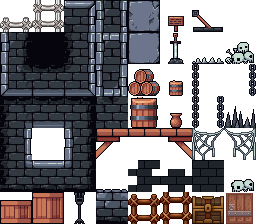
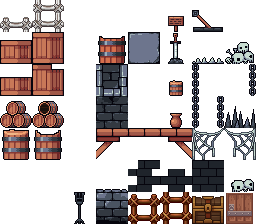
aha-30045 added setted nonInteractive tiles

diff --git a/src/classes/env-static-map-elements.ts b/src/classes/env-static-map-elements.ts
@@ -71,10 +71,10 @@ export class EnvStaticMapElements {
 
   getListOfElementTypes(): IEnvElementTypes {
     return {
-      [EnvStaticElements.box]: this.getCreaterUsualBoxesElement(EnvStaticElements.box, EnvStaticElements.usedBox),
-      [EnvStaticElements.bigBox]: this.getCreaterUsualBoxesElement(EnvStaticElements.bigBox, EnvStaticElements.usedBox),
-      [EnvStaticElements.barrels]: this.getCreaterUsualBoxesElement(EnvStaticElements.barrels, EnvStaticElements.usedBox),
-      [EnvStaticElements.bigBarrel]: this.getCreaterUsualBoxesElement(EnvStaticElements.bigBarrel, EnvStaticElements.usedBox),
+      [EnvStaticElements.box]: this.getCreaterUsualBoxesElement(EnvStaticElements.box, EnvStaticElements.openedBox),
+      [EnvStaticElements.bigBox]: this.getCreaterUsualBoxesElement(EnvStaticElements.bigBox, EnvStaticElements.openedBigBox),
+      [EnvStaticElements.barrels]: this.getCreaterUsualBoxesElement(EnvStaticElements.barrels, EnvStaticElements.openedBarrels),
+      [EnvStaticElements.bigBarrel]: this.getCreaterUsualBoxesElement(EnvStaticElements.bigBarrel, EnvStaticElements.openedBigBarrel),
       [EnvStaticElements.chest]: this.getCreaterUsualBoxesElement(EnvStaticElements.chest, EnvStaticElements.usedBox),
       [EnvStaticElements.door]: this.getCreaterStaticElementWithLayer(
         EnvStaticElements.door,

diff --git a/src/types/enums.ts b/src/types/enums.ts
@@ -86,11 +86,15 @@ export enum PocketItemsEnum {
 }
 
 export enum EnvStaticElements {
-  box = 48,
+  box = 8,
+  openedBox = 16,
   usedBox = 5,
-  bigBox = 49,
-  barrels = 20,
-  bigBarrel = 28,
+  bigBox = 9,
+  openedBigBox = 17,
+  barrels = 24,
+  openedBarrels = 25,
+  bigBarrel = 32,
+  openedBigBarrel = 33,
   torch = 50,
   door = 55,
   chest = 54,

diff --git a/src/classes/map-scene-levels.ts b/src/classes/map-scene-levels.ts
@@ -38,7 +38,7 @@ export class MapSceneLevels {
   }
   _tileIndexes: IMapTilesIndexes = {
     'D': 55, 't': 0, 'tt': 1, 'k': 54, 'B': 13, 'A': 50,
-    'l': 49, 'l1': 48, 'l2': 49, 'l3': 20, 'l4': 28, 'p': 47
+    'l': 8, 'l1': 9, 'l2': 24, 'l3': 32, 'l4': 8, 'p': 47
   }
   _tileBackInds: IMapTilesIndexes = {
     '0': 0
